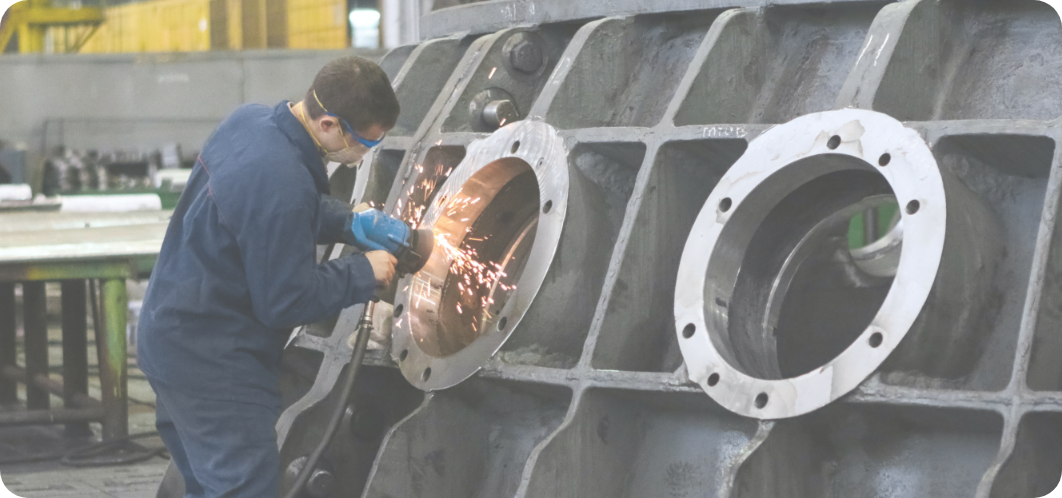
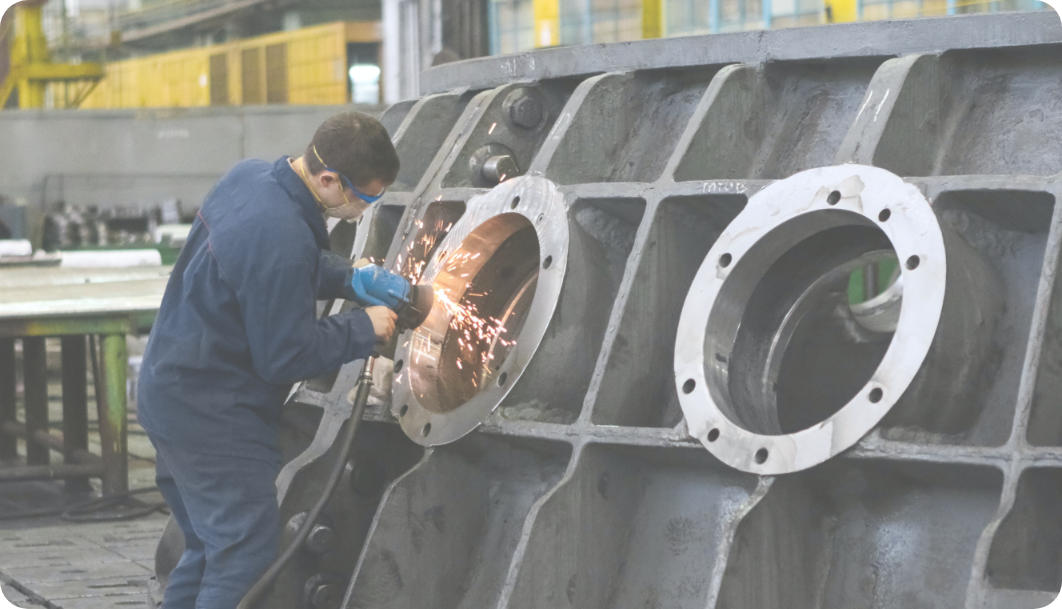
70% home

diff --git a/src/components/Inicio.jsx b/src/components/Inicio.jsx
@@ -1,29 +1,116 @@
-import React from 'react'
 import SlideImg from '../assets/slide1.png'
+// Import Swiper React components
+import { Swiper, SwiperSlide } from 'swiper/react';
+import { Navigation,EffectFade,Autoplay } from 'swiper/modules';
+// Import Swiper styles
+import 'swiper/css';
+import 'swiper/css/navigation';
+import 'swiper/css/effect-fade';
 const Inicio = () => {
+
   return (
     <>
       <div className="main">
         <section className='Hero'>
             <div className="container">
                 <div className="row">
-                    <div className="col-md-5">
-                      <p>Dosificación, bombeo de fluidos, y plásticos de ingeniería.</p>
+                    <div className="col-md-5 pt-3">
+                      <h3>Dosificación, bombeo de fluidos, y plásticos de ingeniería.</h3>
                       <div className="box">
                       <h1 className='titleHome'>LIDERES EN GESTIÓN A SUS NECESIDADES</h1>
                       </div>
                     </div>
                     <div className="col-md-7">
-                      <img src={SlideImg} className='img-fluid' alt="" />
+                      <div className="boxSlider">
+                      <Swiper
+                        navigation={true} 
+                        modules={[Navigation,EffectFade,Autoplay]} 
+                        autoplay={{
+                          delay: 6500,
+                          disableOnInteraction: false,
+                        }}
+                        className="mySwiperHero"
+                        effect={'fade'}
+                      >
+                          <SwiperSlide> <img src={SlideImg} className='img-fluid' alt="" /> </SwiperSlide>
+                          <SwiperSlide> <img src={SlideImg} className='img-fluid' alt="" /> </SwiperSlide>
+                          <SwiperSlide> <img src={SlideImg} className='img-fluid' alt="" /> </SwiperSlide>
+                      </Swiper> 
+                      </div>
+                     
                     </div>
                 </div>
-                <div className="row">
-                <div className="col-md-5">
-                      <p>Dosificación, bombeo de fluidos, y plásticos de ingeniería.</p>
+                <div className="row pt-5">
+                <div className="col-md-6">
+                      <div className="boxDes">
+                        <p>Nos dedicamos a comercializar soluciones integrales  para nuestros clientes en los campos petrolero, petroquímico, química industrial, textil, cementeras, agroindustrial y a  la fabricación de láminas plásticas para órtesis y prótesis.</p>
+                      </div>
                        
                     </div>
-                    <div className="col-md-7">
-                      sssf
+                    <div className="col-md-6">
+                      <h4 className='text-center mb-4'><b>REPRESENTANTES DIRECTOS</b></h4>
+                      <div className="boxMarksOne">
+                      <Swiper
+                        modules={[Autoplay]} 
+                        slidesPerView={4}
+                        breakpoints={{
+                          640: {
+                            slidesPerView: 2,
+                            spaceBetween: 20,
+                          },
+                          768: {
+                            slidesPerView: 2,
+                            spaceBetween: 40,
+                          },
+                          1024: {
+                            slidesPerView: 4,
+                            spaceBetween: 50,
+                          },
+                        }}
+                        autoplay={{
+                          delay: 6500,
+                          disableOnInteraction: false,
+                        }}
+                        className="SwiperMark" 
+                      >
+                          <SwiperSlide> <img src="logo1.png" className='img-fluid' alt="" /> </SwiperSlide> 
+                          <SwiperSlide> <img src="logo2.png" className='img-fluid' alt="" /> </SwiperSlide> 
+                          <SwiperSlide> <img src="logo3.png" className='img-fluid' alt="" /> </SwiperSlide> 
+                          <SwiperSlide> <img src="logo4.png" className='img-fluid' alt="" /> </SwiperSlide> 
+                      </Swiper> 
+                      </div>
+                      <h5 className='text-center mt-4 mb-4'><b>DISTRIBUIDORES DE:</b></h5>
+                      <div className="boxMarksOne">
+                      <Swiper
+                        modules={[Autoplay]} 
+                        slidesPerView={4}
+                        breakpoints={{
+                          640: {
+                            slidesPerView: 2,
+                            spaceBetween: 20,
+                          },
+                          768: {
+                            slidesPerView: 2,
+                            spaceBetween: 40,
+                          },
+                          1024: {
+                            slidesPerView: 4,
+                            spaceBetween: 50,
+                          },
+                        }}
+                        autoplay={{
+                          delay: 2500,
+                          disableOnInteraction: false,
+                        }}
+                        className="SwiperMark" 
+                      >
+                         <SwiperSlide> <img src="logo5.png" className='img-fluid' alt="" /> </SwiperSlide> 
+                          <SwiperSlide> <img src="logo6.png" className='img-fluid' alt="" /> </SwiperSlide> 
+                          <SwiperSlide> <img src="logo7.png" className='img-fluid' alt="" /> </SwiperSlide> 
+                          <SwiperSlide> <img src="logo8.png" className='img-fluid' alt="" /> </SwiperSlide>
+                          <SwiperSlide> <img src="logo9.png" className='img-fluid' alt="" /> </SwiperSlide>
+                      </Swiper> 
+                      </div>
                     </div>
                 </div>
             </div>

diff --git a/src/styles/home.scss b/src/styles/home.scss
@@ -101,7 +101,7 @@ header{
             display: block;
             width: 100%;
             height: 100%; 
-            background: #ffffff47;
+            background: rgb(255 255 255 / 71%);
             backdrop-filter: blur(10px);
             position: absolute;
             left: 0;
@@ -148,4 +148,87 @@ header{
         font-size: 5vw;
         width: 46vw; 
     }
+}
+
+//// slider hero home
+/// 
+.mySwiperHero{
+    & .swiper-button-prev{
+        left: 82%;
+        top: 86%;
+        position: absolute;
+        z-index: 100;
+        padding: 1rem 1.8rem;
+        border-radius: 26px;
+        background-color: var(--terciary-8);
+        color: var(--primary);
+        &:after{
+            font-size: 1.4rem;
+        }
+        
+    }
+    & .swiper-button-next{
+        right: 2%;
+        top: 86%;
+        position: absolute;
+        z-index: 100;
+        padding: 1rem 1.8rem;
+        border-radius: 26px;
+        background-color: var(--terciary-8);
+        color: var(--primary);
+        &:after{
+            font-size: 1.4rem;
+        }
+        
+    }
+}
+.brochure{
+    background-color: var(--primary);
+    color: var(--terciary-8) !important;
+    padding:0.5rem 1rem;
+    border-radius: 20px;
+    display: flex;
+    align-items: center;
+    align-content: center;
+    justify-content: center;
+    text-transform:capitalize;
+    position: relative;
+    padding-right: 50px;
+    &:hover::after, &.active::after{
+        display: none !important;
+    }
+    i{ 
+        background-color: var(--secondary-1-1);
+        position: absolute;
+        right: 0;
+        box-sizing: border-box;
+        padding: 8px 12px;
+        border-radius: 20px;
+    }
+}
+.boxDes{
+    background-color: var(--terciary-9);
+    padding: 1.6rem 3rem;
+    border-radius: 1rem;
+    font-size: 1.4rem;
+    min-height: 300px;
+    display: flex;
+    align-items: center;
+}
+.boxMarksOne{
+    background-color: var(--terciary-8);
+    border: 1px solid var(--terciary-9);
+    padding: 1rem;
+    border-radius: 22px;
+    & .swiper-slide{
+        min-height: 54px;
+        display: flex;
+        align-items: center;
+        align-content: center;
+        justify-content: center;
+    }
+}
+
+.gap-2{
+gap: 40px;    
 }

diff --git a/src/components/layout/Header.jsx b/src/components/layout/Header.jsx
@@ -1,5 +1,6 @@
 import { NavLink } from "react-router-dom"
 import Logo from '../../assets/logo.svg'  
+import Icondwn from '../../assets/Iconly-Download.svg'  
 import { Container, Grid } from "@mui/material"
 
 export const Header = () => {
@@ -40,7 +41,7 @@ export const Header = () => {
                         <NavLink to="/contacto" className={({isActive}) => isActive ? "active" : "" }>Contacto</NavLink>
                     </li>
                     <li>
-                        <NavLink to="/contacto" target="_blank" className={({isActive}) => isActive ? "active" : "" }>Brochure</NavLink>
+                        <NavLink to="" target="_blank" className="brochure">Brochure <i><img src={Icondwn} alt="" /></i></NavLink>
                     </li>
                 </ul>
                 

diff --git a/src/components/layout/Footer.jsx b/src/components/layout/Footer.jsx
@@ -32,13 +32,13 @@ export const Footer = () => {
        </ul>
        </div>
      </div>
-     <div className="row pt-4">
+     <div className="row pt-4 justify-content-between">
       <hr />
       <div className="col-md-4">
         <small>Copyright © 2023 Todos los derechos reservados.</small>
       </div>
       <div className="col-md-4">
-        <ul>
+        <ul className='d-flex justify-content-end gap-2'>
           <li>
             <a href=""><small>Términos de uso</small></a>
           </li>

diff --git a/src/styles/global.scss b/src/styles/global.scss
@@ -22,6 +22,7 @@
     --secondary-1-1:#707070;
     --secondary-light: #444444;
     ///terciary
+    --terciary-9:#E9EEF1;
     --terciary-8:#FFFFFF;
     --terciary-7:#F8F8F8;
     --terciary-6:#F0F0F0;
@@ -31,8 +32,7 @@
     --terciary-2:#CECECE;
     --terciary-1:#C6C6C6;
     --terciary: #F0F0F0;
-    --terciary-light: #F8F8F8;
-    background-color: var(--terciary);
+    --terciary-light: #F8F8F8; 
 
 /////FONTS
     #root{
